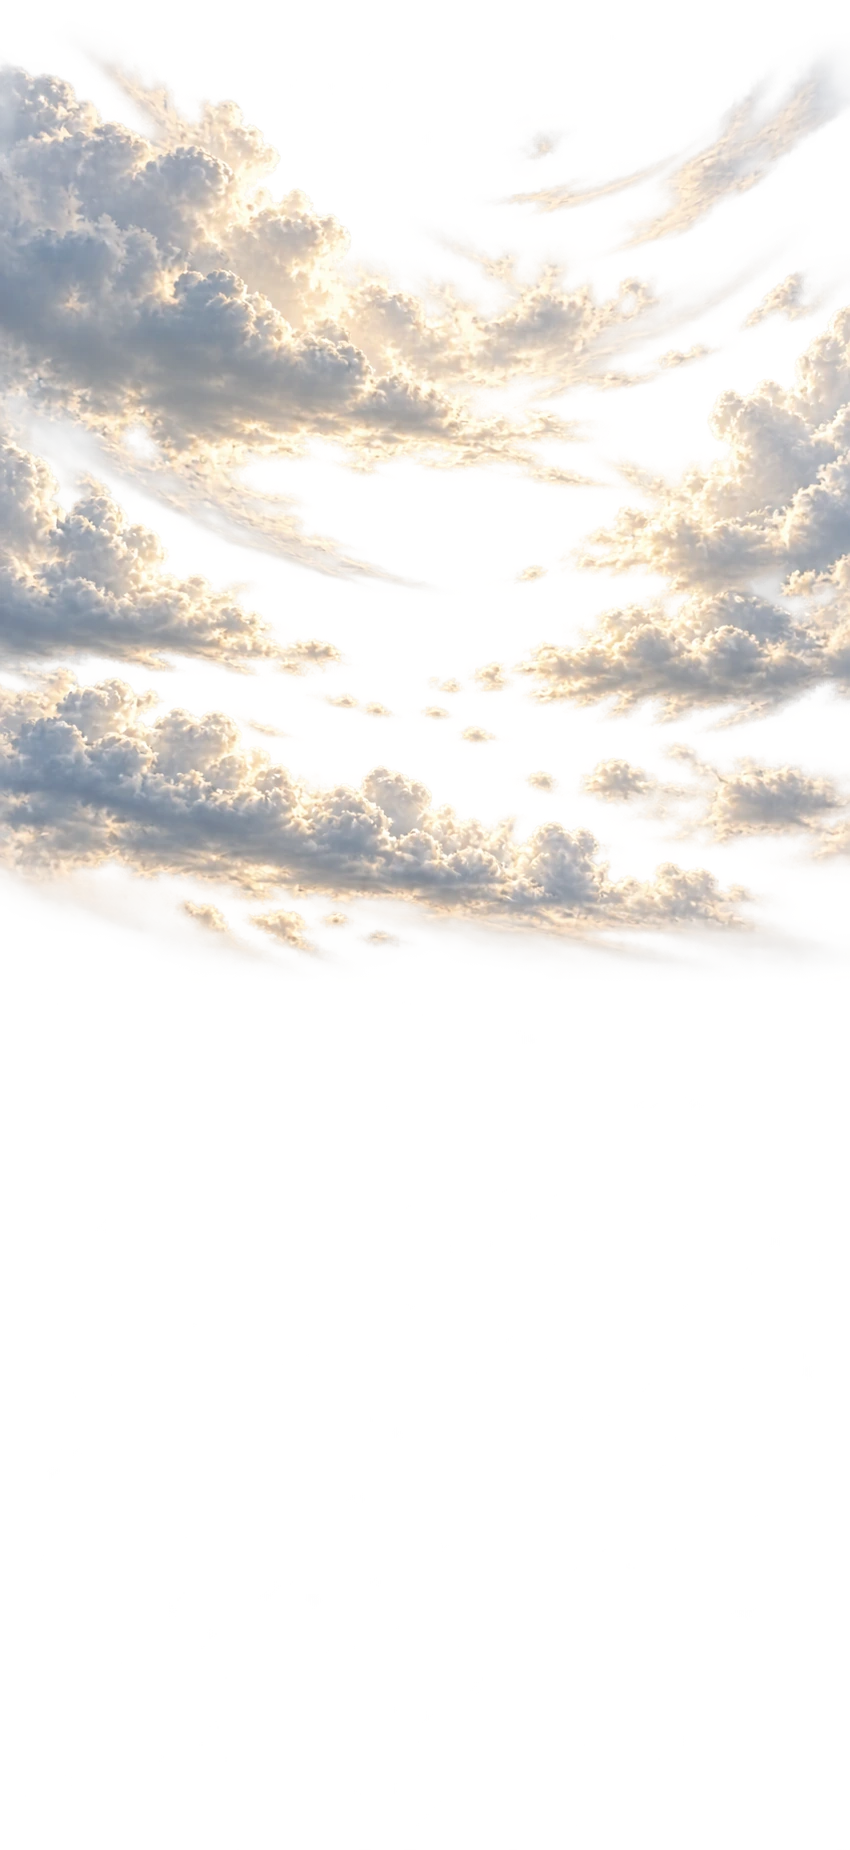
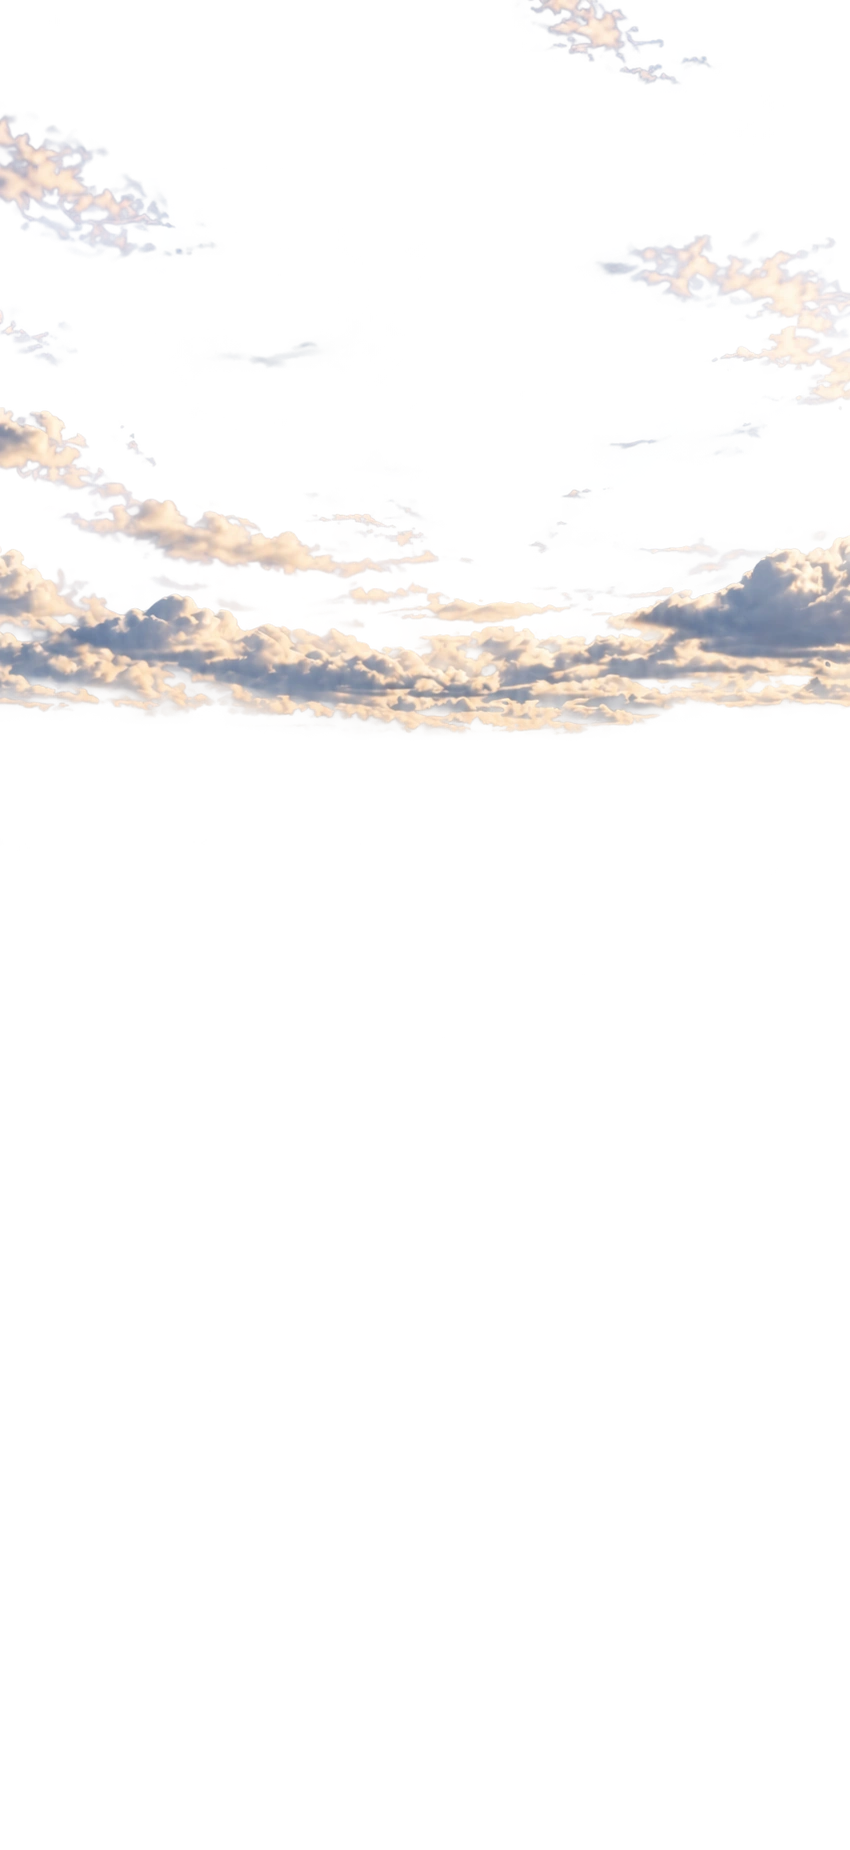
Match photographic valley composition, calibrate continuous lighting and widen physical water

Changed region(s): [[0.0, 0.0308, 1.0, 0.5238], [0.6424, 0.0, 0.7953, 0.0616]]

diff --git a/lib/landscape-water-shaders.ts b/lib/landscape-water-shaders.ts
@@ -5,9 +5,11 @@ import waves from './landscape-water-spectrum.json';
 const projection=`
 const float PI=3.141592653589793;
 const float AZ_SPAN=${(calibration.azimuthSpanDegrees*Math.PI/180).toPrecision(12)};
+const float HORIZON=${calibration.horizon.toPrecision(12)};
+const float ALT_SPAN=${calibration.altitudeSpan.toPrecision(12)};
 const float CAMERA_HEIGHT=${calibration.cameraHeight.toFixed(1)};
-vec2 projectWater(vec3 p){float az=atan(p.x,p.z);float el=atan(p.y-CAMERA_HEIGHT,length(p.xz));return vec2(.5+az/AZ_SPAN,.55-el/(PI*.5)*.49);}
-vec2 unprojectWater(vec2 uv){float az=(uv.x-.5)*AZ_SPAN;float down=max(.012,(uv.y-.55)/.49*(PI*.5));float r=CAMERA_HEIGHT/tan(down);return r*vec2(sin(az),cos(az));}
+vec2 projectWater(vec3 p){float az=atan(p.x,p.z);float el=atan(p.y-CAMERA_HEIGHT,length(p.xz));return vec2(.5+az/AZ_SPAN,HORIZON-el/(PI*.5)*ALT_SPAN);}
+vec2 unprojectWater(vec2 uv){float az=(uv.x-.5)*AZ_SPAN;float down=max(.012,(uv.y-HORIZON)/ALT_SPAN*(PI*.5));float r=CAMERA_HEIGHT/tan(down);return r*vec2(sin(az),cos(az));}
 vec3 lightDirection(vec2 projected,float altitude){float az=(projected.x-.5)*AZ_SPAN;return vec3(sin(az)*cos(altitude),sin(altitude),cos(az)*cos(altitude));}
 `;
 // direction, wavelength, amplitude; each oscillator has the deep-water dispersion omega=sqrt(g*k).
@@ -76,7 +78,7 @@ vec3 displayColor(vec3 hdr){return pow(aces(max(hdr,0.)),vec3(1./2.2));}
 const rayScene=`
 uniform sampler2D uSceneDepth;
 uniform float uSceneEnabled;
-float sceneRadius(vec4 s){return dot(s.rg,vec2(65280.,255.))/65535.*${calibration.worldExtent.toFixed(1)};}
+float sceneRadius(vec4 s){return dot(s.rg,vec2(65280.,255.))/65535.*${calibration.sceneDepthExtent.toFixed(1)};}
 bool scenePoint(vec3 p,out vec2 uv,out float delta){
  uv=projectWater(p);delta=-1.;
  if(uSceneEnabled<.5||any(lessThan(uv,vec2(0.)))||any(greaterThan(uv,vec2(1.))))return false;
@@ -166,8 +168,8 @@ vec3 skyRadiance(vec3 direction){
  vec3 horizon=mix(vec3(.006,.012,.03),vec3(.60,.78,.91),uDay);
  horizon=mix(horizon,vec3(.80,.24,.075),uWarm*.84);
  vec3 sky=mix(horizon,zenith,smoothstep(0.,.75,elevation));
- vec2 reflected=vec2(.5+atan(direction.x,direction.z)/AZ_SPAN,.55-asin(clamp(direction.y,-1.,1.))/(PI*.5)*.49);
- vec2 cloudUV=vec2(1.-abs(mod(reflected.x-uTime*.012,2.)-1.),reflected.y);vec4 cloud=texture(uClouds,cloudUV);
+ vec2 reflected=vec2(.5+atan(direction.x,direction.z)/AZ_SPAN,HORIZON-asin(clamp(direction.y,-1.,1.))/(PI*.5)*ALT_SPAN);
+ vec2 cloudUV=vec2(1.-abs(mod(reflected.x-uTime*${(calibration.cloudSpeed/1000).toFixed(8)},2.)-1.),reflected.y);vec4 cloud=texture(uClouds,cloudUV);
  float cloudAlpha=cloud.a;
  vec3 cloudLinear=pow(cloud.rgb,vec3(2.2));
  vec3 cloudLit=cloudLinear*mix(vec3(.025,.045,.09),vec3(.8),uDay);
@@ -244,7 +246,7 @@ void main(){
  vec3 albedo=pow(art.rgb,vec3(2.2));
  vec3 n=normalize(texture(uTerrainNormal,uv).rgb*2.-1.+vec3(0.,.0001,0.));
  float radius=sceneRadius(texture(uSceneDepth,uv));
- float az=(uv.x-.5)*AZ_SPAN,el=clamp((.55-uv.y)/.49*(PI*.5),-1.45,1.45);
+ float az=(uv.x-.5)*AZ_SPAN,el=clamp((HORIZON-uv.y)/ALT_SPAN*(PI*.5),-1.45,1.45);
  vec3 position=vec3(radius*sin(az),CAMERA_HEIGHT+radius*tan(el),radius*cos(az));
  vec3 ambient=mix(vec3(.018,.028,.065),vec3(.55,.65,.82),uDay);
  ambient=mix(ambient,vec3(.40,.20,.30),uWarm*.15)*(.55+.45*max(n.y,0.));
@@ -282,7 +284,7 @@ ${rayScene}
 float cloudShadow(vec3 point,vec3 light){
  float distanceToLayer=max(0.,64.-point.y)/max(light.y,.025);
  vec2 p=projectWater(point+light*distanceToLayer);
- p.x=1.-abs(mod(p.x-uTime*.012,2.)-1.);
+ p.x=1.-abs(mod(p.x-uTime*${(calibration.cloudSpeed/1000).toFixed(8)},2.)-1.);
  return 1.-textureLod(uClouds,p,0.).a*.94;
 }
 vec3 bright(vec2 uv){vec4 s=texture(uWater,uv);float lum=dot(s.rgb,vec3(.2126,.7152,.0722));float threshold=uHdr>.5?1.25:.86;return s.rgb*min(max(lum-threshold,0.),4.)/max(lum,.0001)*s.a;}
@@ -299,7 +301,7 @@ void main(){
  }
  float shafts=0.;
  if(uSceneEnabled>.5&&uQuality>.5&&uSunAltitude>0.&&uSunIntensity>.001){
-  float az=(uv.x-.5)*AZ_SPAN,el=(.55-uv.y)/.49*(PI*.5);
+  float az=(uv.x-.5)*AZ_SPAN,el=(HORIZON-uv.y)/ALT_SPAN*(PI*.5);
   vec3 direction=vec3(sin(az)*cos(el),sin(el),cos(az)*cos(el));
   vec3 light=lightDirection(uSunPosition,uSunAltitude);
   vec4 depth=texture(uSceneDepth,uv);

diff --git a/lib/landscape-renderer.ts b/lib/landscape-renderer.ts
@@ -1,3 +1,4 @@
+import camera from './landscape-water-calibration.json';
 import {paintSun,moonTexture,MOON_RADIUS} from './landscape-celestial';
 import {projectCelestial,smoothstep,type AstronomyState} from './landscape-astronomy';
 import {landscapeLighting,type LandscapeLightingState} from './landscape-lighting';
@@ -6,7 +7,7 @@ export {mountainHorizon,discVisibility} from './landscape-lighting';
 const TAU=Math.PI*2,WIDTH=1000,HEIGHT=1000*1850/850;
 const blend=(a:number[],b:number[],t:number)=>a.map((v,i)=>v+(b[i]-v)*t);
 const css=(c:number[])=>`rgb(${c.map(Math.round).join(',')})`;
-export const cloudOffset=(seconds:number)=>((seconds*12)%(2*WIDTH)+2*WIDTH)%(2*WIDTH);
+export const cloudOffset=(seconds:number)=>((seconds*camera.cloudSpeed)%(2*WIDTH)+2*WIDTH)%(2*WIDTH);
 export const cloudSampleX=(x:number,shift:number)=>{const u=((x-shift/WIDTH)%2+2)%2;return 1-Math.abs(u-1);};
 export type LandscapeAssets={terrain:CanvasImageSource;clouds:CanvasImageSource;water:CanvasImageSource;moon?:CanvasImageSource;geometry?:CanvasImageSource;perspective?:CanvasImageSource;sceneDepth?:CanvasImageSource;terrainNormal?:CanvasImageSource;cloudAlpha?:Uint8ClampedArray};
 /** One neutral illustrated terrain cutout, one cloud layer and a mask extracted from
@@ -116,14 +117,14 @@ export class LandscapeRenderer{
       const style=`position:absolute;inset:0;width:100%;height:${this.canvas.style.height||'100%'};z-index:-1;pointer-events:none;visibility:${gpuReady?'visible':'hidden'}`;
       if(this.gpu.canvas.getAttribute('style')!==style)this.gpu.canvas.setAttribute('style',style);
       // The compositor presents water directly: no GPU -> 2D readback on the animation path.
-      const jumped=Math.abs(state.ms-this.lastAstronomy)>2000;
+      const jumped=Math.abs(state.ms-this.lastAstronomy)>2000||seconds<this.lastBackground||seconds-this.lastBackground>1;
       if(!jumped&&seconds-this.lastBackground<1/8)return;
     }
     this.lastBackground=seconds;this.lastAstronomy=state.ms;this.backgroundFrames++;
     const lightKey=[sky.day.toFixed(3),sky.twilight.toFixed(3),sky.moonlight.toFixed(2),sun.x.toFixed(2)].join(':');
     if(lightKey!==this.lastLight){this.relight(sky.day,sky.twilight,sky.moonlight,sun.x);this.lastLight=lightKey;}
     c.setTransform(1,0,0,1,0,0);
-    const gradient=c.createLinearGradient(0,0,0,this.height*.61);
+    const gradient=c.createLinearGradient(0,0,0,this.height*(camera.horizon+.06));
     gradient.addColorStop(0,css(blend(blend([2,9,31],[28,114,204],sky.day),[92,47,102],sky.twilight*.8)));
     gradient.addColorStop(.6,css(blend(blend([8,21,51],[88,172,231],sky.day),[224,107,128],sky.twilight*.9)));
     gradient.addColorStop(1,css(blend(blend([22,34,66],[200,222,226],sky.day),[255,148,64],sky.twilight)));
@@ -156,10 +157,10 @@ export class LandscapeRenderer{
     // No CPU reflection strips or alternate wave simulation runs here.
     if(this.fallbackKey!==lightKey){
       const w=this.water.getContext('2d')!;w.setTransform(1,0,0,1,0,0);w.clearRect(0,0,this.width,this.height);this.coordinates(w);
-      const fill=w.createLinearGradient(0,HEIGHT*.57,0,HEIGHT);
+      const fill=w.createLinearGradient(0,HEIGHT*camera.waterMaskTop,0,HEIGHT);
       fill.addColorStop(0,css(blend(blend([13,35,69],[113,179,199],sky.day),[90,112,150],sky.twilight*.35)));
       fill.addColorStop(1,css(blend(blend([9,28,58],[48,123,155],sky.day),[65,81,123],sky.twilight*.3)));
-      w.fillStyle=fill;w.fillRect(0,HEIGHT*.57,WIDTH,HEIGHT);w.globalCompositeOperation='destination-in';w.drawImage(this.assets.water,0,0,WIDTH,HEIGHT);w.globalCompositeOperation='source-over';this.fallbackKey=lightKey;
+      w.fillStyle=fill;w.fillRect(0,HEIGHT*camera.waterMaskTop,WIDTH,HEIGHT);w.globalCompositeOperation='destination-in';w.drawImage(this.assets.water,0,0,WIDTH,HEIGHT);w.globalCompositeOperation='source-over';this.fallbackKey=lightKey;
     }
     c.drawImage(this.water,0,0);
     }

diff --git a/lib/landscape-water-gpu.ts b/lib/landscape-water-gpu.ts
@@ -65,11 +65,11 @@ export class LandscapeWaterGPU {
   try{
    this.programs.push(this.compile(WATER_VERTEX,WATER_FRAGMENT));this.programs.push(this.compile(SCREEN_VERTEX,LIGHT_FRAGMENT));this.programs.push(this.compile(SCREEN_VERTEX,PRESENT_FRAGMENT));this.programs.push(this.compile(SCREEN_VERTEX,TERRAIN_FRAGMENT));
    this.texture(0,this.assets.water);this.texture(1,this.assets.terrain);
-   // Decode the opaque 16-bit UV atlas once. Float filtering is performed in the vertex shader.
+   // Decode the opaque 24-bit UV atlas once. Float filtering is performed in the vertex shader.
    const atlas=document.createElement('canvas'),image=this.assets.geometry as HTMLImageElement;
    atlas.width=image.width;atlas.height=image.height;const c=atlas.getContext('2d',{willReadFrequently:true})!;c.drawImage(image,0,0);
    const pixels=c.getImageData(0,0,atlas.width,atlas.height).data,w=atlas.width/2,h=atlas.height,positions=new Float32Array(w*h*2);
-   for(let y=0;y<h;y++)for(let x=0;x<w;x++){const a=(y*atlas.width+x)*4,b=a+w*4,i=(y*w+x)*2;positions[i]=((pixels[a]*256+pixels[a+1])/65535-.5)*(2*calibration.worldExtent);positions[i+1]=((pixels[b]*256+pixels[b+1])/65535-.5)*(2*calibration.worldExtent);}
+   for(let y=0;y<h;y++)for(let x=0;x<w;x++){const a=(y*atlas.width+x)*4,b=a+w*4,i=(y*w+x)*2;positions[i]=((pixels[a]*65536+pixels[a+1]*256+pixels[a+2])/16777215-.5)*(2*calibration.worldExtent);positions[i+1]=((pixels[b]*65536+pixels[b+1]*256+pixels[b+2])/16777215-.5)*(2*calibration.worldExtent);}
    const geometry=gl.createTexture();if(!geometry)throw Error('geometry allocation');this.textures.push({unit:2,texture:geometry});gl.activeTexture(gl.TEXTURE2);gl.bindTexture(gl.TEXTURE_2D,geometry);this.parameters(gl.NEAREST);gl.texImage2D(gl.TEXTURE_2D,0,gl.RG32F,w,h,0,gl.RG,gl.FLOAT,positions);atlas.width=atlas.height=1;
    this.texture(3,this.assets.perspective);this.texture(4,this.assets.clouds);
    const empty=document.createElement('canvas');empty.width=empty.height=1;

diff --git a/lib/landscape-astronomy.ts b/lib/landscape-astronomy.ts
@@ -1,4 +1,5 @@
 import * as SunCalc from 'suncalc';
+import camera from './landscape-water-calibration.json';
 
 // SunCalc 1.9.0 uses RADIANS and azimuth clockwise from SOUTH (v2 differs).
 // Offline, low precision ephemerides for a decorative scene, not navigation.
@@ -42,9 +43,9 @@ export function skyState(state:AstronomyState){
   const moonlight=state.illumination.fraction*smoothstep(0,.25,state.moon.altitude)*(1-day);
   return {day,twilight,moonlight,stars:1-smoothstep(-16,-4,altitude),fog:.16+.28*twilight+.07*(1-day)};
 }
-/** Fixed south-facing 260° artistic panorama. Mountains are NOT the local horizon.
+/** Fixed scene-camera projection of the existing ephemeris. Mountains are NOT the local horizon.
  * North passes behind the viewer, outside the image, so azimuth wrap is offscreen. */
 export function projectCelestial(body:{altitude:number;azimuth:number}){
-  const azimuth=Math.atan2(Math.sin(body.azimuth),Math.cos(body.azimuth));
-  return {x:.5+azimuth/(260*Math.PI/180),y:.55-body.altitude/(Math.PI/2)*.49};
+  const azimuth=Math.atan2(Math.sin(body.azimuth-camera.cameraYawRadians),Math.cos(body.azimuth-camera.cameraYawRadians));
+  return {x:.5+azimuth/(camera.astronomyAzimuthSpanDegrees*Math.PI/180),y:camera.horizon-body.altitude/(Math.PI/2)*camera.altitudeSpan};
 }

diff --git a/components/DynamicLandscape.tsx b/components/DynamicLandscape.tsx
@@ -133,7 +133,7 @@ export default function DynamicLandscape({active,glass=true}:{active:boolean;gla
       if(mono+.5>=nextFrame)draw();else frameRequest=requestAnimationFrame(tick);
     };
     const image=(name:string)=>new Promise<HTMLImageElement>((resolve,reject)=>{
-      const value=new Image();value.onload=()=>resolve(value);value.onerror=()=>reject(new Error(name));value.src='/themes/mountains/'+name;
+      const value=new Image();value.onload=()=>resolve(value);value.onerror=()=>reject(new Error(name));value.src='/themes/mountains/'+name+'?v=photographic-camera-2';
     });
     void Promise.all([image('terrain.webp'),image('clouds.webp'),image('water-mask.png'),image('water-uv.png').catch(()=>undefined),image('water-perspective.png').catch(()=>undefined),image('moon.webp').catch(()=>undefined),image('scene-depth.png').catch(()=>undefined),image('terrain-normal.png').catch(()=>undefined)]).then(([terrain,clouds,water,geometry,perspective,moon,sceneDepth,terrainNormal])=>{
       if(!alive)return;

diff --git a/lib/landscape-celestial.ts b/lib/landscape-celestial.ts
@@ -1,5 +1,5 @@
 /** Decorative disc rendering only. Position, phase and orientation stay astronomical. */
-export const SUN_RADIUS=26,MOON_RADIUS=28;
+export const SUN_RADIUS=26,MOON_RADIUS=36;
 export function moonTexture(){
   const canvas=document.createElement('canvas');canvas.width=canvas.height=192;
   const c=canvas.getContext('2d')!,r=96;

diff --git a/test/landscape-gpu-egl.py b/test/landscape-gpu-egl.py
@@ -98,17 +98,18 @@ for index, image in zip([0, 1, 3, 4, 7], images):
     data = C.create_string_buffer(image.tobytes())
     function('glTexImage2D', None, ui, integer, integer, integer, integer, integer, ui, ui, ptr)(0x0DE1, 0, 0x1908, image.width, image.height, 0, 0x1908, 0x1401, data)
     function('glUniform1i', None, integer, integer)(location(program, {0:'uMask',1:'uTerrain',3:'uPerspective',4:'uClouds',7:'uSceneDepth'}[index].encode()), index)
+calibration=json.load(open('lib/landscape-water-calibration.json'))
 atlas=np.array(Image.open('public/themes/mountains/water-uv.png').convert('RGB'));mh,mw=atlas.shape[:2];mw//=2
 geometry=np.zeros((mh,mw,4),dtype=np.float32)
 for channel,offset in [(0,0),(1,mw)]:
-    q=atlas[:,offset:offset+mw,0].astype(np.uint16)*256+atlas[:,offset:offset+mw,1]
-    geometry[:,:,channel]=(q.astype(np.float32)/65535-.5)*256
+    q=atlas[:,offset:offset+mw,0].astype(np.uint32)*65536+atlas[:,offset:offset+mw,1].astype(np.uint32)*256+atlas[:,offset:offset+mw,2]
+    geometry[:,:,channel]=(q.astype(np.float32)/16777215-.5)*(2*calibration['worldExtent'])
 texture=ui();function('glGenTextures',None,integer,C.POINTER(ui))(1,C.byref(texture));function('glActiveTexture',None,ui)(0x84C0+2);function('glBindTexture',None,ui,ui)(0x0DE1,texture.value)
 for key,value in [(0x2801,0x2600),(0x2800,0x2600),(0x2802,0x812F),(0x2803,0x812F)]:param(0x0DE1,key,value)
 function('glTexImage2D',None,ui,integer,integer,integer,integer,integer,ui,ui,ptr)(0x0DE1,0,0x8814,mw,mh,0,0x1908,0x1406,geometry.ctypes.data)
 function('glUniform1i',None,integer,integer)(location(program,b'uGeometry'),2)
 columns,rows=96,128
-vertices=np.array([(x/columns,.575+y/rows*.425) for y in range(rows+1) for x in range(columns+1)],dtype=np.float32)
+vertices=np.array([(x/columns,calibration['waterTop']+y/rows*(1-calibration['waterTop'])) for y in range(rows+1) for x in range(columns+1)],dtype=np.float32)
 indices=[]
 for y in range(rows):
  for x in range(columns):
@@ -160,7 +161,7 @@ assert max(abs(a-b) for a,b in zip(means,means[1:]))<.035, ('no full-river flash
 difference = ImageChops.difference(first, later)
 changed = sum(sum(pixel[:3]) > 2 for pixel in difference.getdata())
 assert changed > 500, ('wave motion', changed)
-assert first.getchannel('A').crop((0, 0, W, int(H * .55))).getextrema() == (0, 0), 'no sky lighting'
+assert first.getchannel('A').crop((0, 0, W, int(H * calibration['waterMaskTop']))).getextrema() == (0, 0), 'no sky lighting'
 mask = images[0].resize((W, H), Image.Resampling.BILINEAR).getchannel('A')
 escaped = sum(a == 0 and pixel[3] > 20 for a, pixel in zip(mask.getdata(), first.getdata()))
 assert escaped == 0, ('mask containment', escaped)

diff --git a/scripts/prepare-water-geometry.py b/scripts/prepare-water-geometry.py
@@ -1,6 +1,6 @@
 """Controlled plane reconstruction, tied to the existing panorama and exact mask.
 Pillow/numpy/scipy are generation-only; no new runtime dependencies.
-The UV atlas has two opaque RGB halves: signed X16 and Z16 in RG.
+The UV atlas has two opaque RGB halves: signed X24 and Z24 in RGB.
 Perspective atlas: R relative observer distance, G bank fade, B shore AO.
 No light axis, random coordinates, or inferred 3D mountains are baked into maps.
 """
@@ -19,10 +19,10 @@ world_x=radius[:,None]*np.sin(az)[None,:]
 world_z=radius[:,None]*np.cos(az)[None,:]
 atlas=np.zeros((h,w*2,3),dtype=np.uint8)
 for offset,world in [(0,world_x),(w,world_z)]:
- q=np.rint(np.clip(world/c['worldExtent']*.5+.5,0,1)*65535).astype(np.uint16)
- atlas[:,offset:offset+w,0]=(q>>8).astype(np.uint8)
- atlas[:,offset:offset+w,1]=(q&255).astype(np.uint8)
- atlas[:,offset:offset+w,2]=255
+ q=np.rint(np.clip(world/c['worldExtent']*.5+.5,0,1)*16777215).astype(np.uint32)
+ atlas[:,offset:offset+w,0]=(q>>16).astype(np.uint8)
+ atlas[:,offset:offset+w,1]=((q>>8)&255).astype(np.uint8)
+ atlas[:,offset:offset+w,2]=(q&255).astype(np.uint8)
 Image.fromarray(atlas).save(out/'water-uv.png',optimize=True)
 mask=np.array(Image.open(out/'water-mask.png').getchannel('A').resize((w,h),Image.Resampling.LANCZOS))
 distance=distance_transform_edt(mask>100)

diff --git a/scripts/prepare-landscape-masks.py b/scripts/prepare-landscape-masks.py
@@ -17,9 +17,10 @@ assert terrain.size == (850, 1850)
 alpha = np.asarray(terrain)[:, :, 3]
 skyline = np.argmax(alpha > 160, axis=0)
 assert np.all(np.any(alpha > 160, axis=0))
-assert np.min(skyline) > terrain.height * .4
+assert np.min(skyline) > terrain.height * .3
 water = np.zeros_like(alpha)
-far_bank = 1100  # Above the first river opening, below every mountain edge.
+calibration=json.loads((root/'lib/landscape-water-calibration.json').read_text())
+far_bank = int(calibration['waterMaskTop']*terrain.height)  # Above the first river opening, below every mountain edge.
 assert np.max(skyline) < far_bank
 water[far_bank:] = 255 - alpha[far_bank:]
 mask = np.full((1850, 850, 4), 255, dtype=np.uint8)

diff --git a/scripts/prepare-scene-depth.py b/scripts/prepare-scene-depth.py
@@ -21,7 +21,7 @@ ground=(c['cameraHeight']-.96)/np.tan(depression)
 # Positive smooth minimum: a hard shell/plane minimum creates a full-width
 # normal discontinuity that becomes visible under material lighting.
 radial=(110.**-6+ground**-6)**(-1/6)
-q=np.rint(np.clip(radial/c['worldExtent'],0,1)*65535).astype(np.uint16)
+q=np.rint(np.clip(radial/c['sceneDepthExtent'],0,1)*65535).astype(np.uint16)
 depth=np.zeros((h,w,4),dtype=np.uint8)
 depth[:,:,0]=(q>>8)[:,None];depth[:,:,1]=(q&255)[:,None]
 depth[:,:,2]=np.where(alpha>16,alpha,0);depth[:,:,3]=255

diff --git a/scripts/prepare-terrain-normal.py b/scripts/prepare-terrain-normal.py
@@ -11,7 +11,7 @@ folder=root/'public/themes/mountains'
 c=json.loads((root/'lib/landscape-water-calibration.json').read_text())
 depth=np.asarray(Image.open(folder/'scene-depth.png')).astype(float)
 h,w=depth.shape[:2]
-radius=(depth[:,:,0]*256+depth[:,:,1])/65535*c['worldExtent']
+radius=(depth[:,:,0]*256+depth[:,:,1])/65535*c['sceneDepthExtent']
 az=((np.arange(w)+.5)/w-.5)*np.deg2rad(c['azimuthSpanDegrees'])
 el=(c['horizon']-(np.arange(h)+.5)/h)/c['altitudeSpan']*np.pi/2
 el=np.clip(el,-1.45,1.45)

diff --git a/docs/hero-landscape-prompts.md b/docs/hero-landscape-prompts.md
@@ -1,0 +1,13 @@
+# Selected source and extraction prompts
+
+## hero-master
+
+Use case: photorealistic-natural. Source matte-painting asset for an animated realistic mountain landscape app, NOT a phone mockup. Reconstruct the SAME landscape composition from the reference: remove ALL interface, ALL text, buttons, screen/frame/borders. One full-bleed portrait 850x1850 image. Realistic cinematic landscape with highly detailed natural conifer forests, rugged blue-grey mountains and a broad winding river. Camera/framing MUST match reference: sky occupies the upper40%; left high peak around (25%,42%), right high peak around (90%,43%), central low valley skyline around (58%,51%). Distant river first appears at (57%,59%); broad river winds gently across lower40%, around THREE wooded peninsulas. The nearest water takes up most of the lower-right half, with open rippled water from x45% to90% in the bottom quarter. Soft out-of-focus golden-green leaves frame only leftmost20% and a small lower-right edge. No tall foreground tree wall blocking the river. Wide cinematic depth, fine fir silhouettes and soft blue atmospheric layers. Neutral late-afternoon DAYLIGHT materials, blue sky with a few thin layered cumulus/cloud banks near the horizon, plenty of OPEN SKY. Soft neutral water, no bright reflection path. NO sun, NO moon, no shafts, no sunset orange wash, no stars. The engine adds dynamic sky lighting and reflections later. Photographic natural materials, not comic/vector/low-poly, no oversharpening or painterly brush strokes. Preserve the reference's broad elegant river proportions and valley composition; don't invent a triangular zigzag reservoir. No buildings, people, UI or captions.
+
+## hero-terrain
+
+Use case: background-extraction. Extract the TERRAIN ONLY from this exact input landscape. Keep the input camera, composition, every mountain, forest peninsula, individual tree edge, foreground leaf and rock at exactly the SAME pixel position. Same 850x1850 portrait, NO moving/zooming/reframing/cropping or repainting objects. Make ALL SKY and ALL CLOUDS completely transparent alpha. Make EVERY visible WATER/RIVER surface completely transparent alpha, preserving all tree-covered islands, peninsulas and shore silhouettes precisely. Keep the original landscape colours and fine photographic textures. Do not add a water fill, black background, sun, reflections, fog paint, text or UI. Output production terrain cutout: alpha holes for sky and river, opaque forest/mountains/foreground. Especially preserve the wide OPEN river in the lower-right from the input. This is exact layer extraction from this source, not a new scene.
+
+## hero-clouds
+
+Use case: background-extraction. Extract ONLY the clouds from the input master, at the same pixel positions on the same 850x1850 portrait canvas. The master is the camera/layout reference. Keep its fine realistic thin cirrus and horizontally layered small cumulus, with soft translucent edges and neutral cream/white/grey detail. Make ALL blue sky, ALL mountains, forest, foliage and river transparent alpha. Nothing except clouds should remain. Do not move, zoom, recolour, enlarge or add large towering cloud masses. Keep the open central sky clear, and keep all lower60% fully transparent. No sun, moon, stars, text, frame or UI. Actual alpha transparency, no checkerboard or coloured background.
